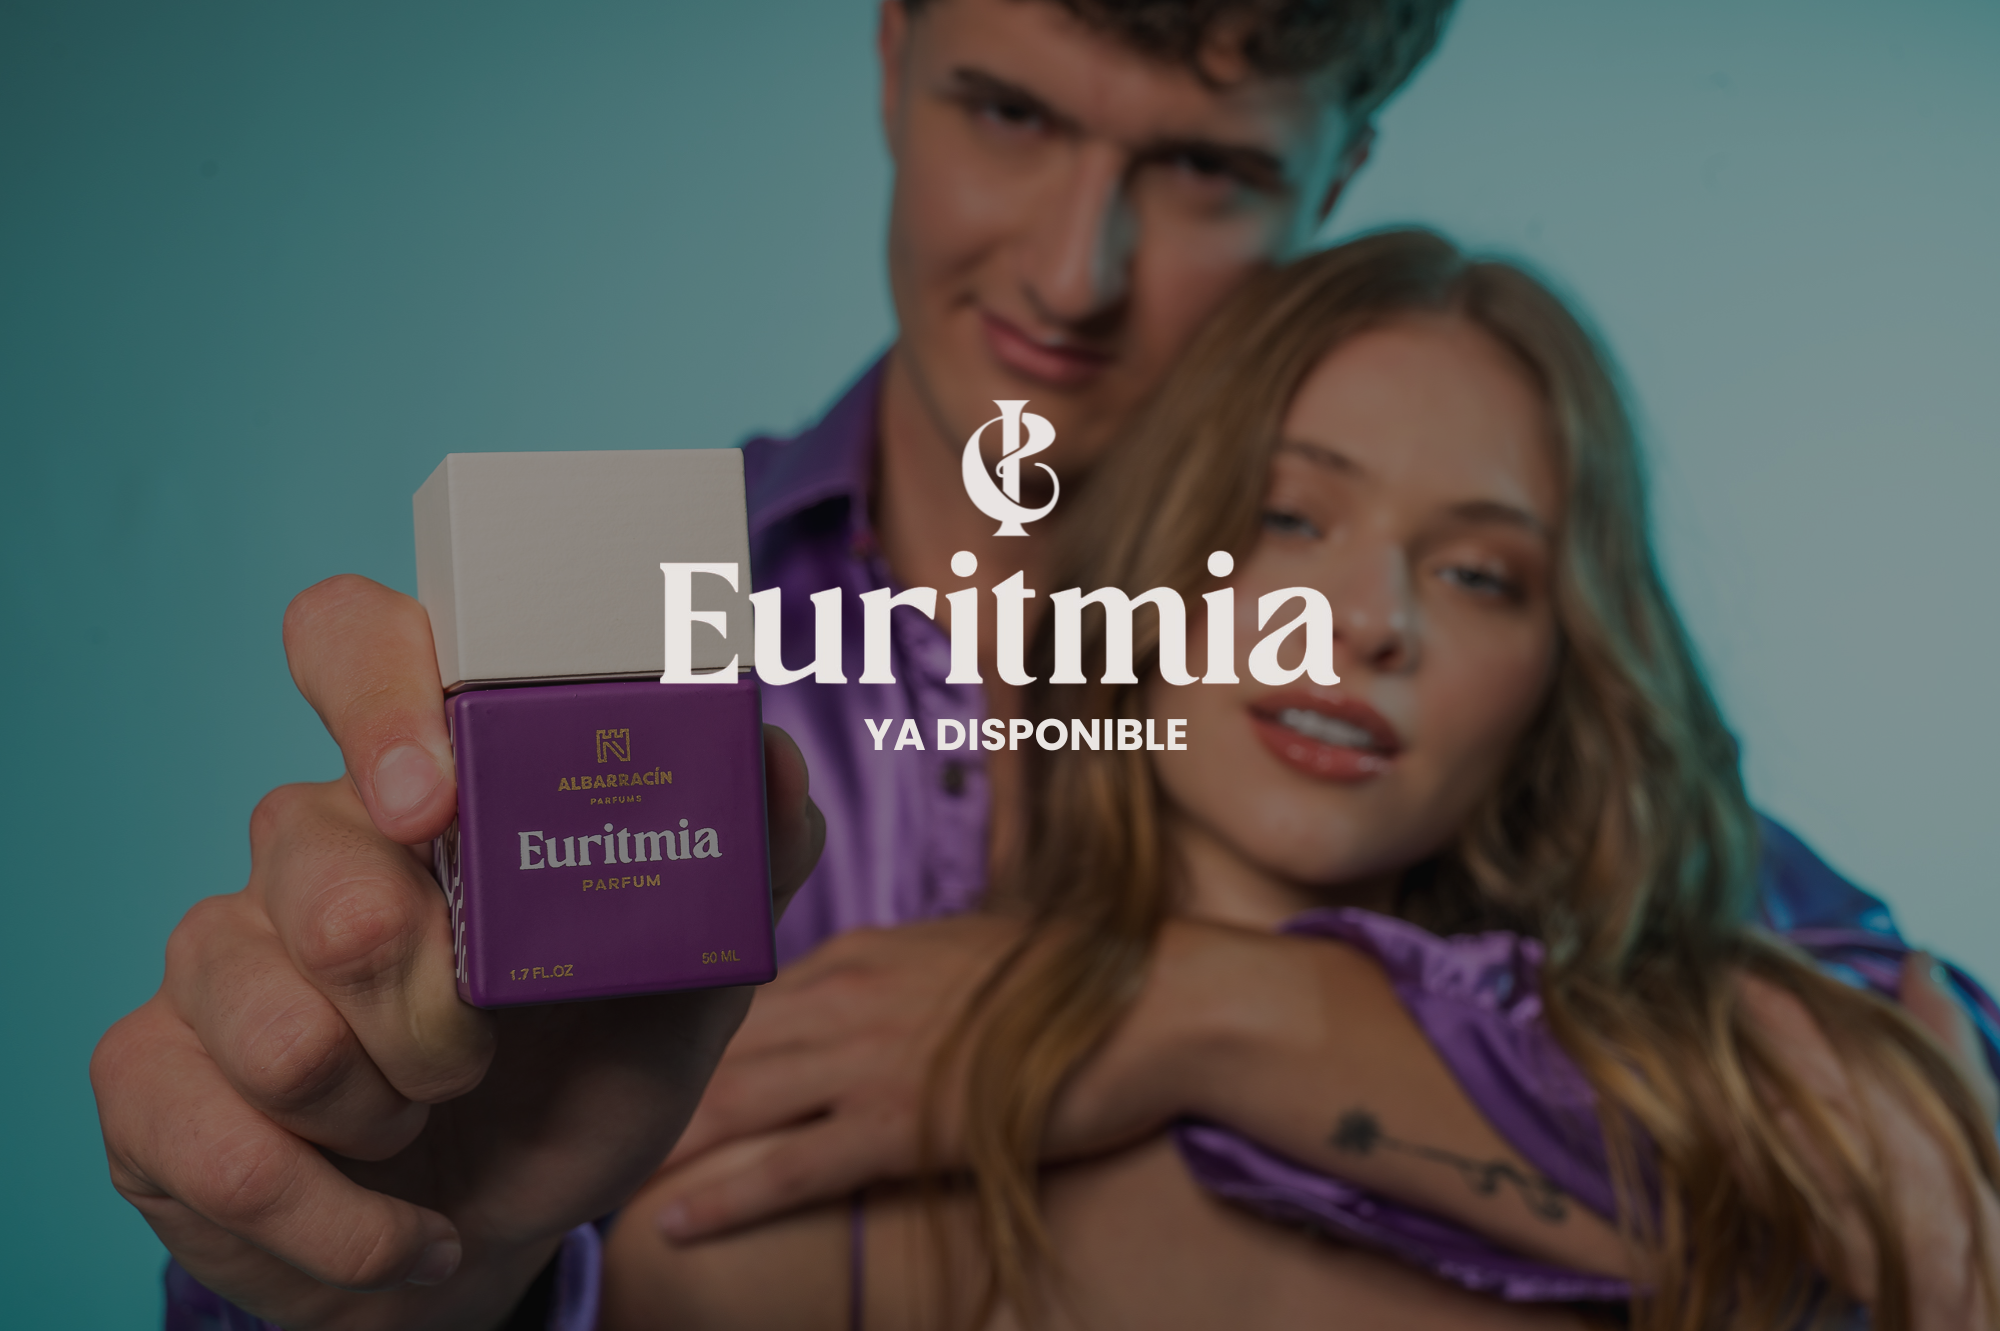
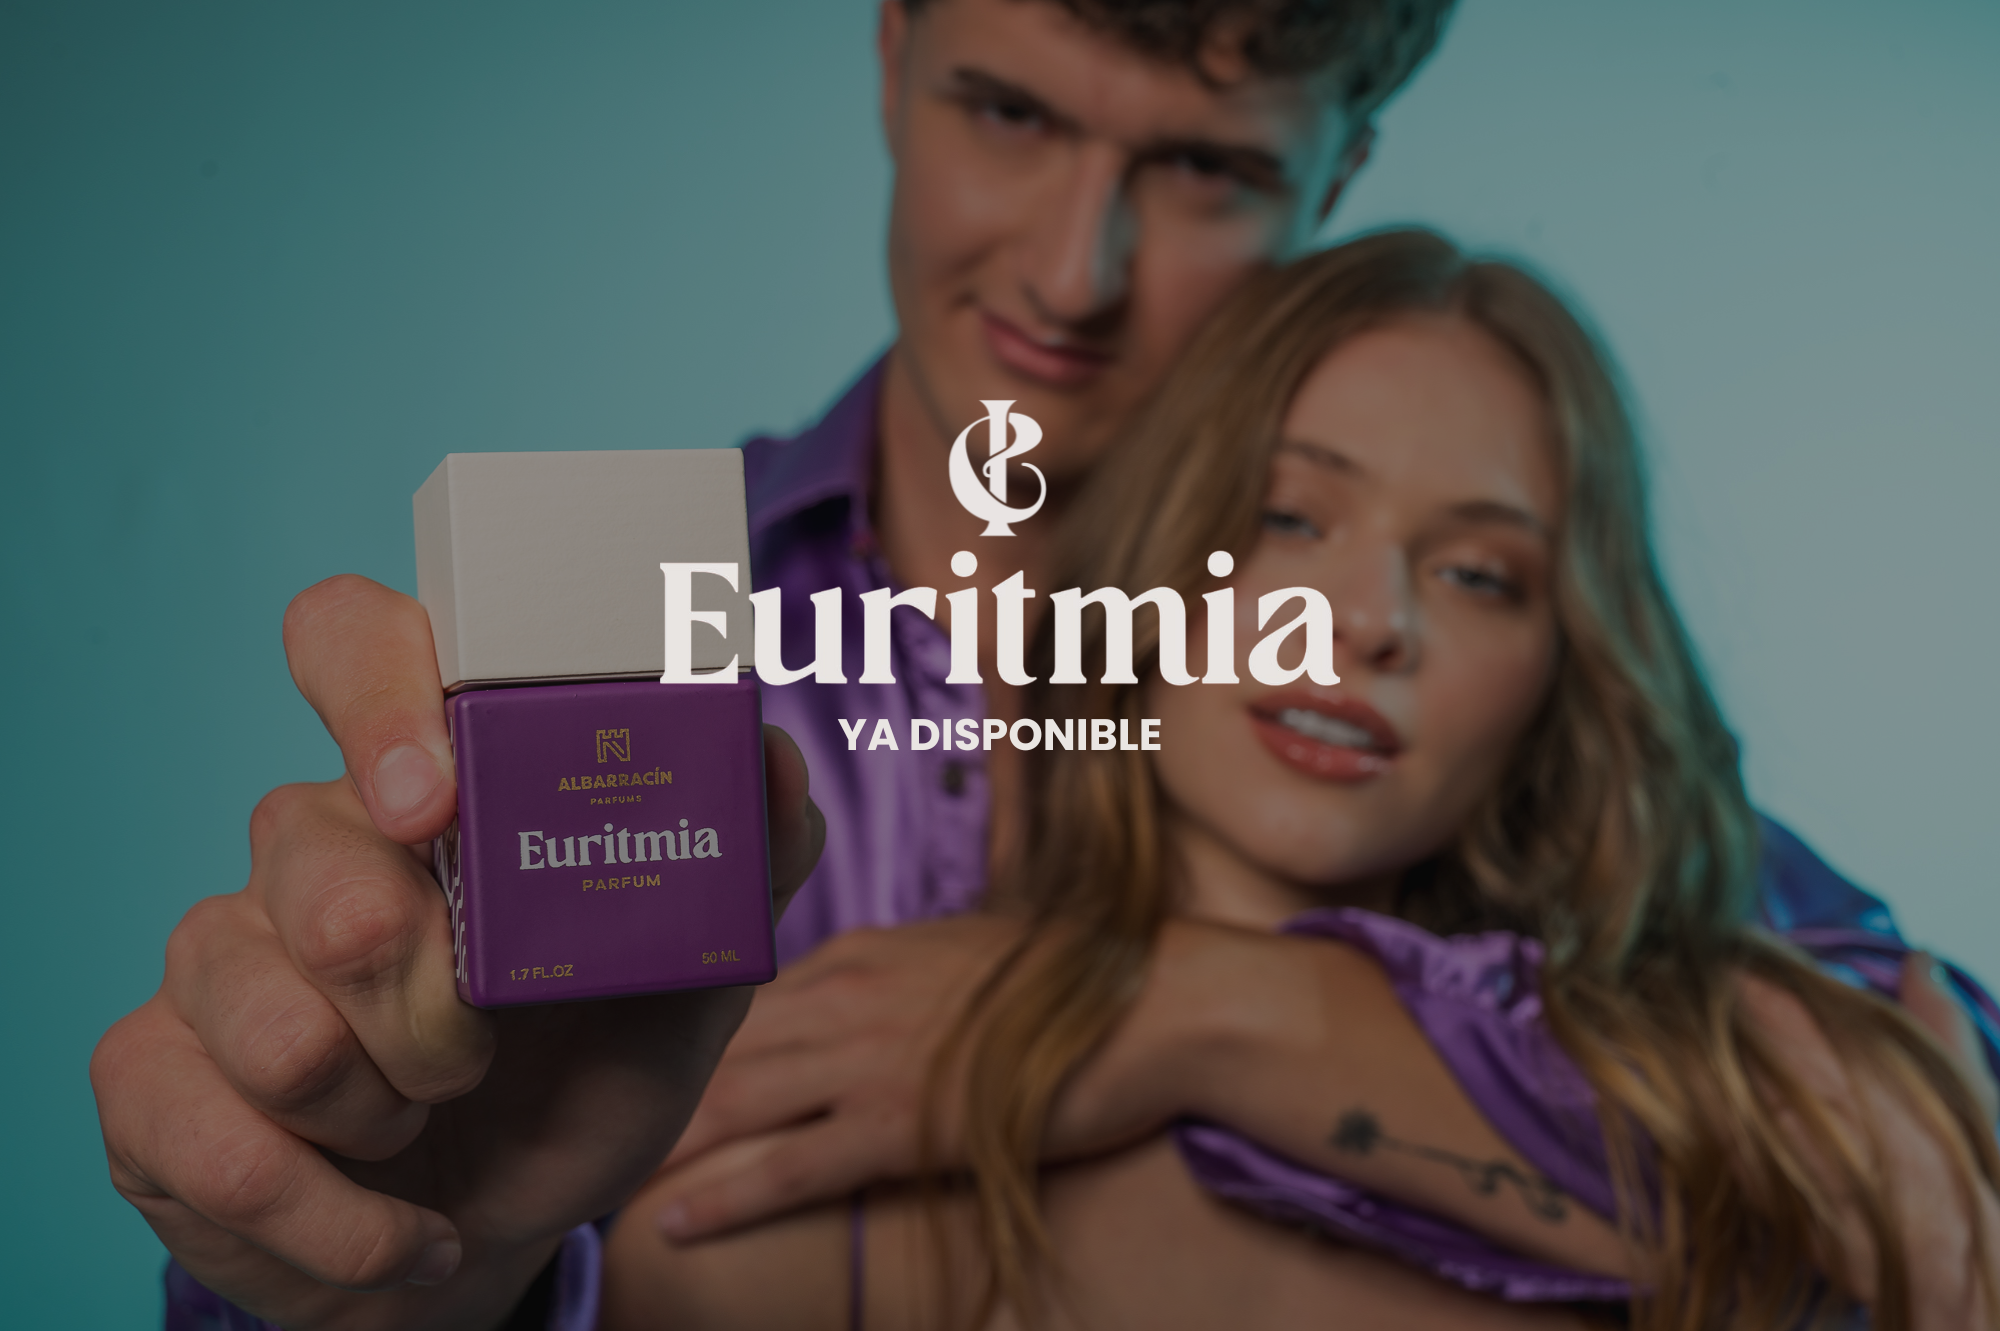
Pre release
antes del lanzamiento

Changed region(s): [[0.403, 0.5237, 0.589, 0.5853], [0.465, 0.308, 0.527, 0.4005]]

diff --git a/public/css/styles.css b/public/css/styles.css
@@ -20,7 +20,7 @@ h1{
 }
 
 h2{
-    font-family: Raleway;
+    font-family: poppins;
     font-weight: 900;
     color: #CBA052;
     font-size: 20px;    
@@ -29,9 +29,8 @@ h2{
 }
 
 h3{
-    font-family: inter;
+    font-family: poppins;
     font-weight: 400;
-    font-style: italic;
 }
 
 h4{
@@ -264,7 +263,7 @@ h4{
     overflow: hidden;
     display: flex;
     background-image: url(/imgs/perfume-comprar-perfume.png);
-    background-size: 100% 135%;
+    background-size: 100% 150%;
     background-position: top;
   }
 
@@ -312,7 +311,7 @@ h4{
 }
 
 .sectionSempi{
-    background-image: url(/imgs/quinta.jpg);
+    background-image: url(/imgs/homePerfu.jpg);
     background-position: center;
     height: 300px;
     width: 350px;
@@ -335,7 +334,7 @@ h4{
 
 .divSempi{
     position: relative;
-    top: 68%;
+    top: 66%;
     bottom: 0;
     left: 0;
     background-color: rgb(0, 0, 0, 0.7);
@@ -380,7 +379,7 @@ h4{
     border-radius: 5px;
     background-color: #034638;
     transition-duration: 0.4s;
-    margin-left: 60px;
+    margin-left: 24%;
     margin-bottom: 10px;
     margin-top: 6%;
 }
@@ -421,7 +420,7 @@ h4{
 
 .divEuri{
     position: relative;
-    top: 68%;
+    top: 66%;
     bottom: 0;
     left: 0;
     background-color: rgb(0, 0, 0, 0.2);
@@ -499,6 +498,7 @@ h4{
     padding: 67px;
     padding-top: 80px;
     padding-bottom: 98px;
+    margin-top: 9%;
     opacity: 0%;
     transition-duration: 0.3s;
 }
@@ -539,6 +539,7 @@ h4{
     padding: 67px;
     padding-top: 80px;
     padding-bottom: 98px;
+    margin-top: 9%;
     opacity: 0%;
     transition-duration: 0.3s;
 }
@@ -590,6 +591,7 @@ h4{
     padding: 67px;
     padding-top: 80px;
     padding-bottom: 98px;
+    margin-top: 9%;
     opacity: 0%;
     transition-duration: 0.3s;
 }
@@ -698,7 +700,7 @@ h4{
         overflow: hidden;
         display: flex;
         background-image: url(/imgs/perfume-comprar-perfume.png);
-        background-size: 100% 100%;
+        background-size: 175% 125%;
         background-position: top;
       }
     
@@ -713,11 +715,11 @@ h4{
     .buyButton{
         font-family: poppins;
         color: white;
-        font-size: 180%;
+        font-size: 120%;
         font-weight: bold;
-        padding: 15%;
+        padding: 10%;
         text-align: center;
-        margin-left: -30px;
+        margin-left: -15px;
         border: solid transparent 1px;
         border-radius: 5px;
         background-color: #7A4073;
@@ -734,7 +736,7 @@ h4{
     
     .h2Perfu{
         text-align: center;
-        margin-top: 14vh;
+        margin-top: 7vh;
         font-size: 250%;
         color: #CBA052;
     }
@@ -745,11 +747,11 @@ h4{
         align-items: center;
         gap: 2rem;
         width: 100%;
-        margin-top: 151px;
+        margin-top: 100px;
     }
     
     .sectionSempi{
-        background-image: url(/imgs/quinta.jpg);
+        background-image: url(/imgs/homePerfu.jpg);
         background-position: center;
         height: 300px;
         width: 350px;
@@ -812,7 +814,7 @@ h4{
         border-radius: 5px;
         background-color: #034638;
         transition-duration: 0.4s;
-        margin-left: 60px;
+        margin-left: 83px;
         margin-bottom: 10px;
     }
     
@@ -872,7 +874,7 @@ h4{
         border-radius: 5px;
         background-color: #7A4073;
         transition-duration: 0.4s;
-        margin-left: 90px;
+        margin-left: 83px;
         margin-bottom: 10px;
     }
     
@@ -1987,14 +1989,21 @@ h4{
     border-radius: 5px;
 }
 
+.h2Nosotrosdesk{
+    font-size: 200%;
+}
+
 .h3Nosotrosdesk{
-    font-size: 90%;
-    text-align: center;
-    margin-bottom: 0px;
+    font-size: 120%;
+    margin: 0 auto;
+    margin-top: 3%;
+    text-align: justify;
+    margin-bottom: 3%;
 }
 
 .infoDiv1{
     text-align: center;
+    text-justify: inter-word;
     display: flex;
     flex-direction: column;
     align-items: center;
@@ -2030,7 +2039,8 @@ h4{
         border: solid 3px transparent;
         border-radius: 5px;
         box-shadow: 0 10px 10px rgba(0,0,0,0.55);
-        margin-bottom: 75px;
+        margin-bottom: 40px;
+        margin-top: 25px;
     }
 
     .divUsvideo{
@@ -2040,11 +2050,11 @@ h4{
         justify-content: center;
         margin-left: 3.5%;
         margin-right: 3.5%;
-        margin-top: 100px;
+        margin-top: 0px;
         border: solid 3px transparent;
         border-radius: 5px;
         box-shadow: 0 10px 10px rgba(0,0,0,0.55);
-        margin-bottom: 50px;
+        margin-bottom: 25px;
     }
     
     .video{
@@ -2067,12 +2077,14 @@ h4{
     }
 
     .h2Nosotros{
-        font-size: 100%;
+        font-size: 110%;
     }
 
     .h3Nosotros{
-        font-size: 60%;
+        font-size: 50%;
         margin: 0;
+        margin-top: 3%;
+        margin-bottom: 3%;
     }
     
     .imgNosotros1{
@@ -2547,7 +2559,7 @@ h4{
     padding-left: 75px;
     margin-top: 10px;
     margin-bottom: 10px;
-    margin-right: 10px;
+    margin-right: 0px;
     font-weight: bold;
     font-size: 20px;
     color: white;
@@ -2763,7 +2775,7 @@ h4{
         padding-left: 75px;
         margin-top: 10px;
         margin-bottom: 10px;
-        margin-right: 10px;
+        margin-right: 0px;
         font-weight: bold;
         font-size: 20px;
         color: white;
